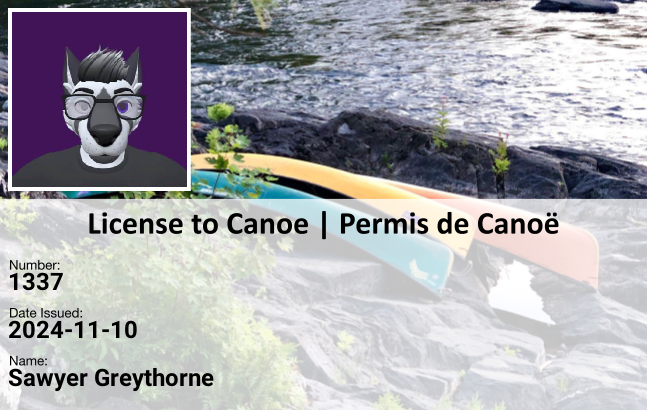
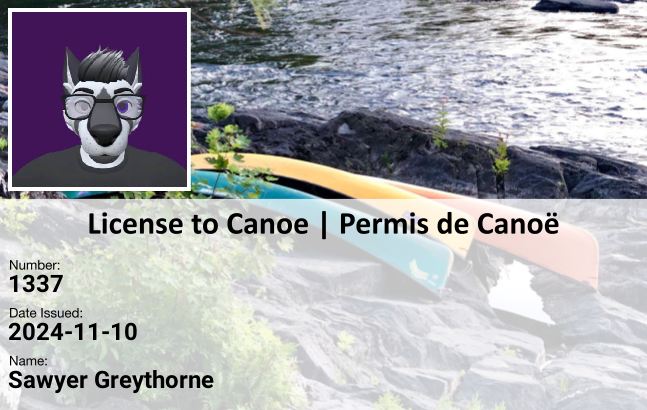
testdata moved into example_test

diff --git a/example_test/idgen_test.go b/example_test/idgen_test.go
@@ -10,17 +10,17 @@ import (
 )
 
 func TestCardTemplate(t *testing.T) {
-	templateImg, err := wlfgfx.ResourceLoadImage("../testdata/canoe.png")
+	templateImg, err := wlfgfx.ResourceLoadImage("./testdata/canoe.png")
 	if err != nil {
 		t.Fatalf("Failed to load image: %v", err)
 	}
 
-	sampleImg, err := wlfgfx.ResourceLoadImage("../testdata/Sawyer.jpg")
+	sampleImg, err := wlfgfx.ResourceLoadImage("./testdata/Sawyer.jpg")
 	if err != nil {
 		t.Fatalf("Failed to load image: %v", err)
 	}
 
-	sampleFont, err := wlfgfx.ResourceLoadFont("../testdata/Roboto/Roboto-Bold.ttf", 24.0)
+	sampleFont, err := wlfgfx.ResourceLoadFont("./testdata/Roboto/Roboto-Bold.ttf", 24.0)
 	if err != nil {
 		t.Fatalf("Failed to load font: %v", err)
 	}
@@ -36,21 +36,21 @@ func TestCardTemplate(t *testing.T) {
 	textI_01 := wlfgfx.TextInput{
 		Text:     "1337",
 		X:        8,
-		Y:        290,
+		Y:        292,
 		TextFace: sampleFont,
 		Color:    color.Black,
 	}
 	textI_02 := wlfgfx.TextInput{
 		Text:     "2024-11-10",
 		X:        8,
-		Y:        338,
+		Y:        340,
 		TextFace: sampleFont,
 		Color:    color.Black,
 	}
 	textI_03 := wlfgfx.TextInput{
 		Text:     "Sawyer Greythorne",
 		X:        8,
-		Y:        386,
+		Y:        388,
 		TextFace: sampleFont,
 		Color:    color.Black,
 	}
